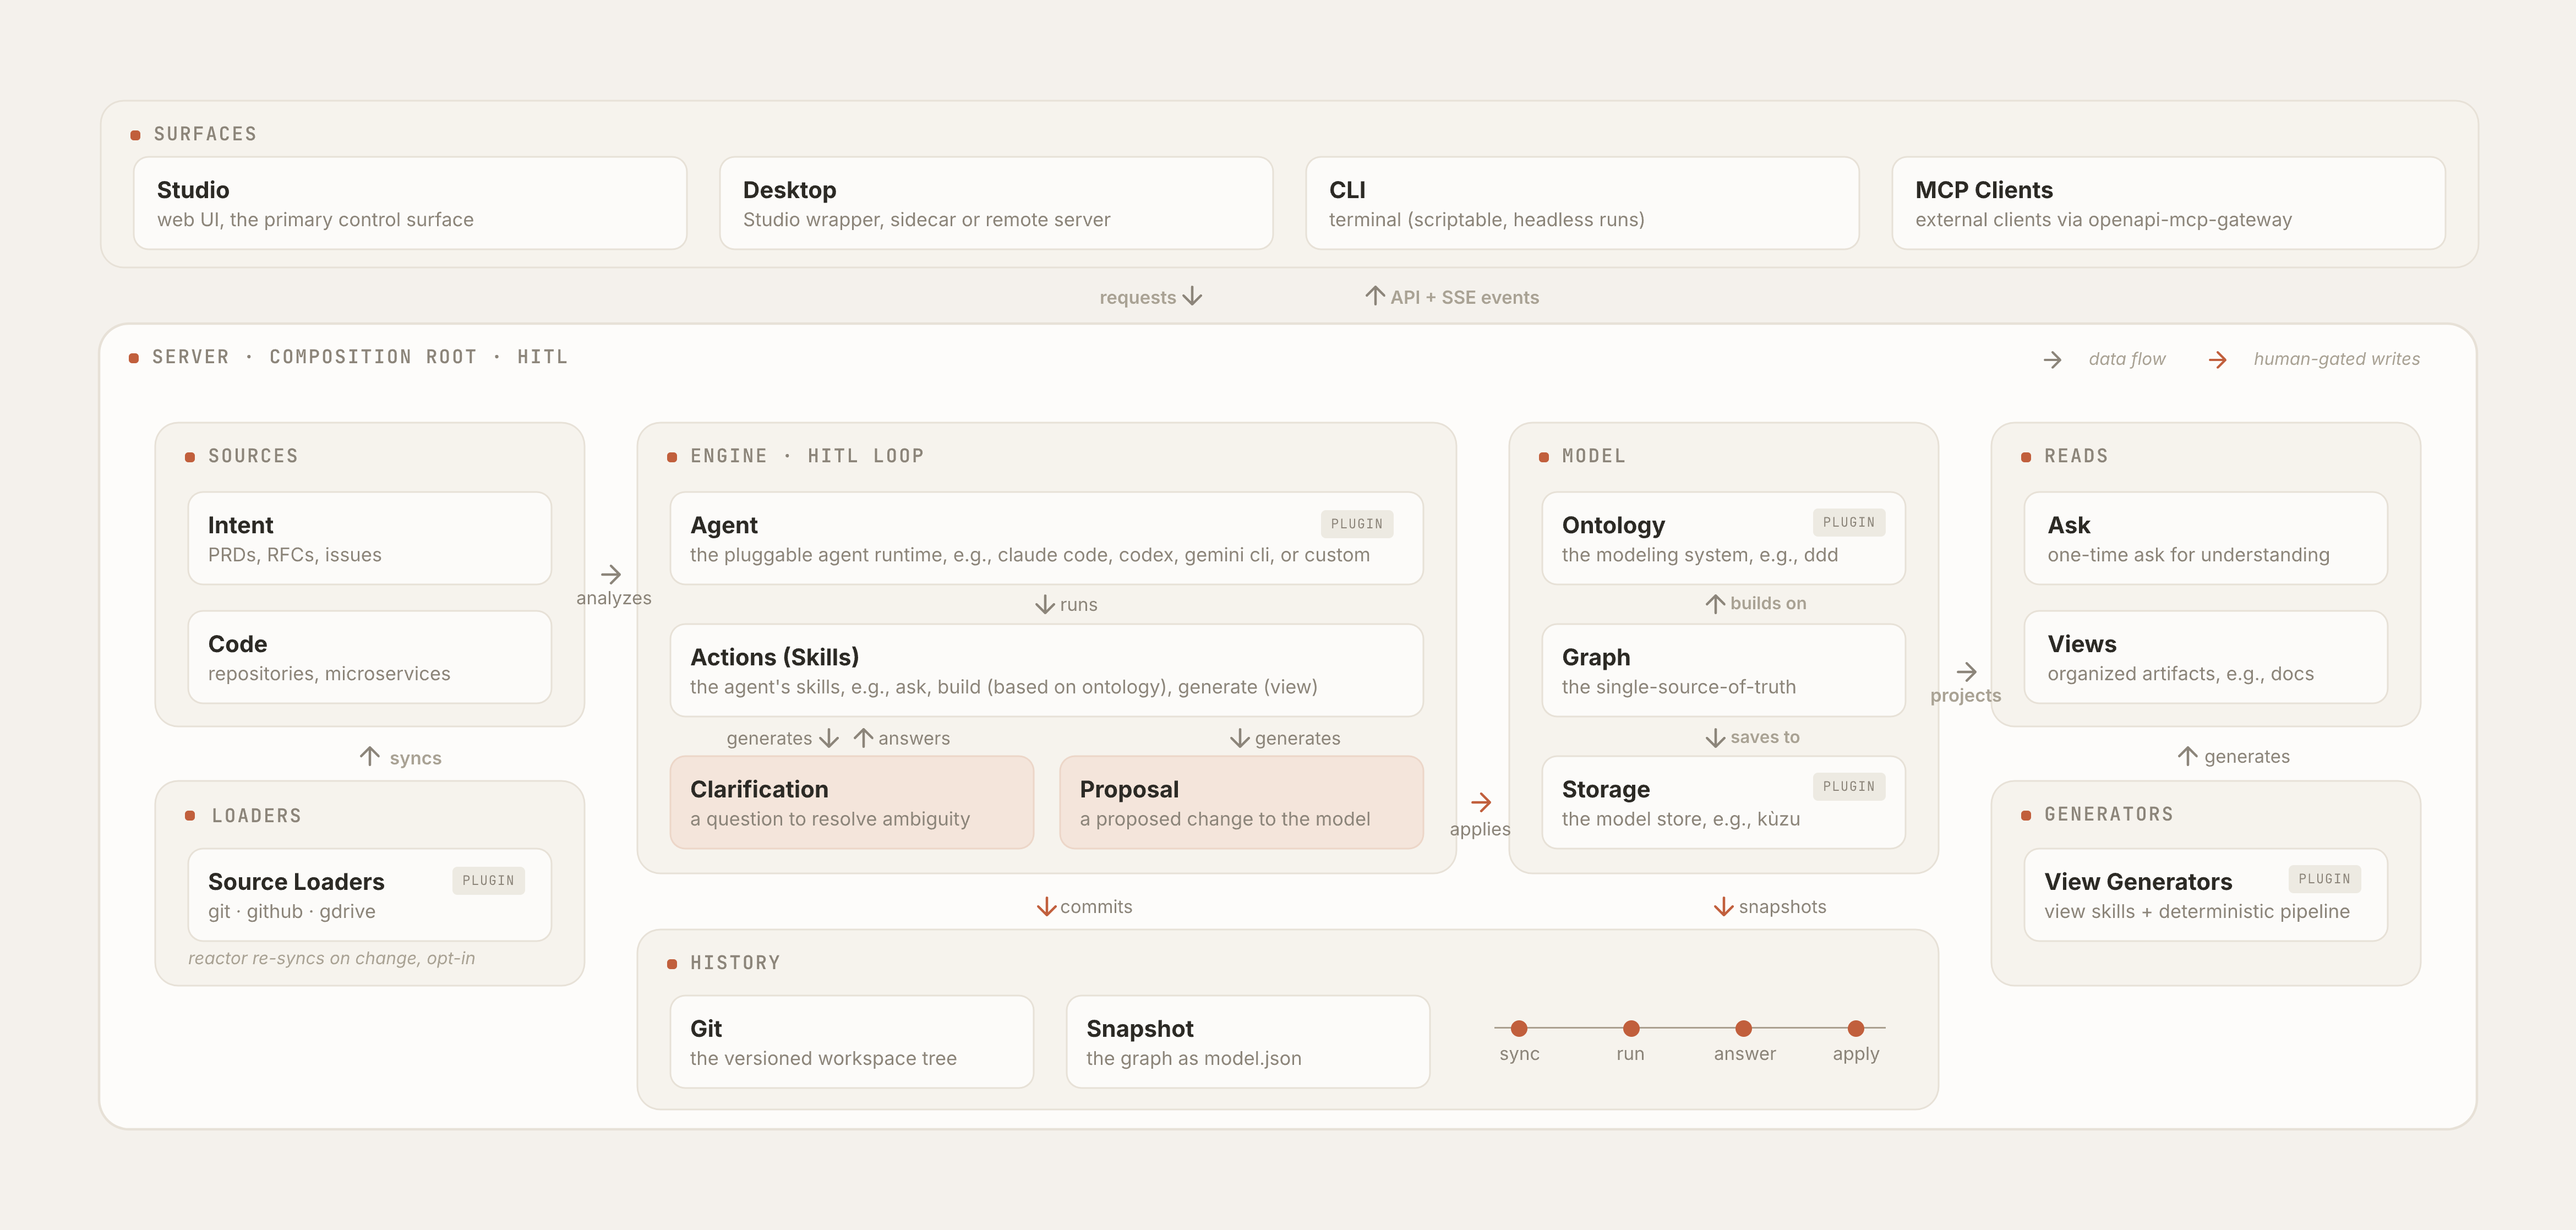
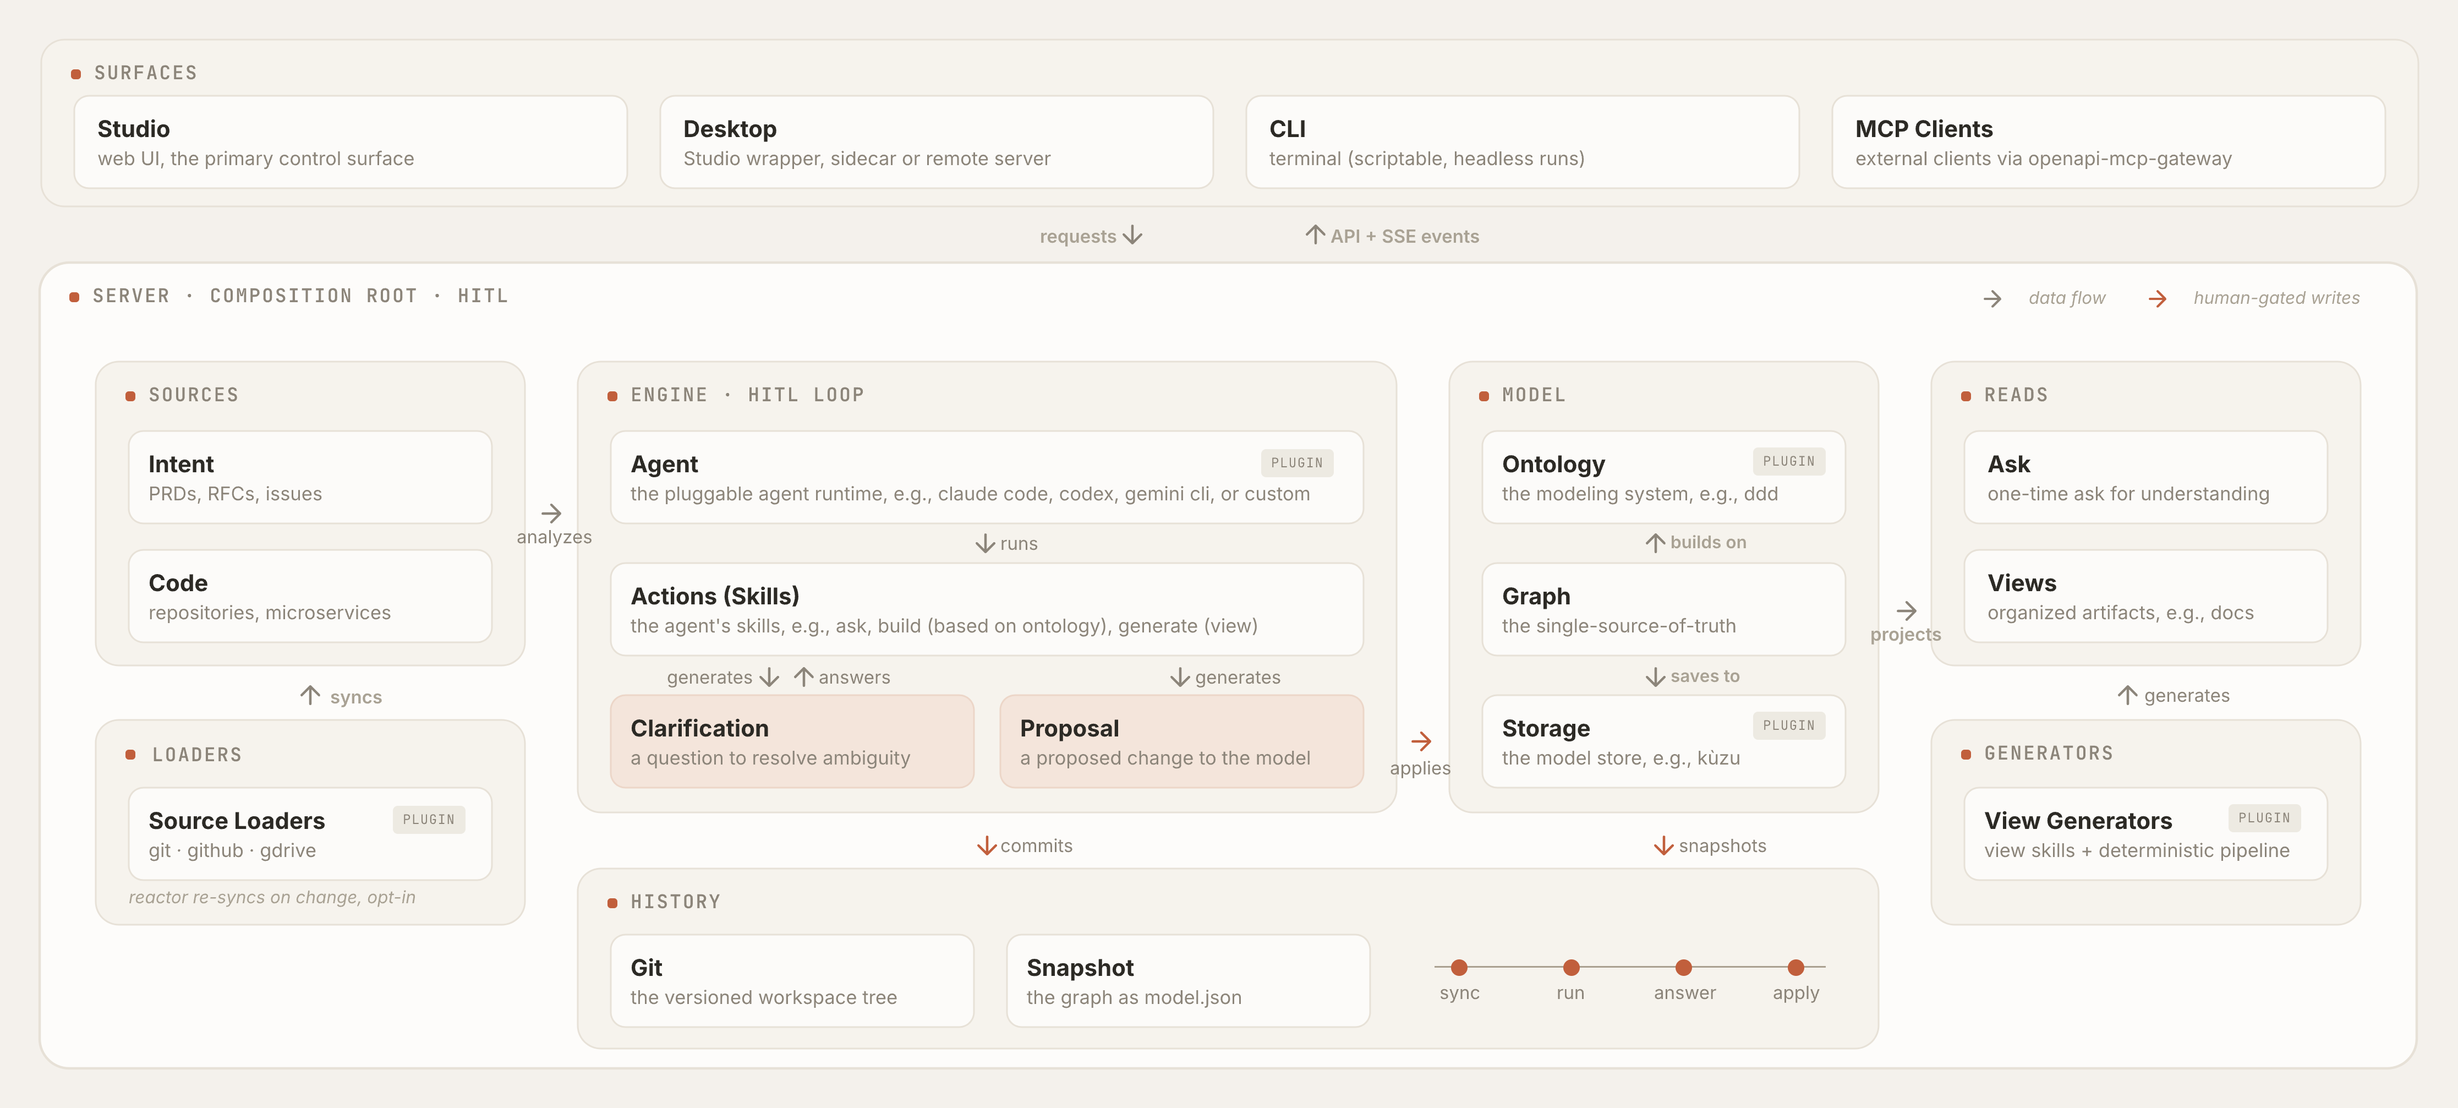
chore(release): prepare 0.2.0 (#81)
* chore(release): prepare 0.2.0

- bump all package versions 0.1.0 -> 0.2.0 for the release
- README: lift the architecture diagram to a hero spot after the intro and
  move the install snippet into a Quick Start section

* docs(readme): group sections under Design and Usage, trim the diagram

- fold Framework + Architecture under a Design heading, and Quick Start, The
  Loop, and Workspace Manifest under Usage, so the short sections read as a
  two-level hierarchy instead of a flat list of ten
- keep the architecture diagram as a hero image right after the intro
- re-export architecture.png with the surrounding whitespace trimmed

* docs(readme): correct the manifest and skill snippets

- the PRODUCT.md example now carries the required source id and name plus a
  storage block, so it parses against ProductManifest instead of throwing
- drop the non-existent requiredPaths skill field, the braid block only
  preflights requiredEnv and requiredMcpServers
- drop the stale agents/agentBindings manifest mention

Verified both the manifest and skill frontmatter parse against the schemas.

---------

diff --git a/README.md b/README.md
@@ -9,11 +9,7 @@
 
 Braid braids them back into one domain model that engineers and PMs can both read. The default ontology is Domain-Driven Design (DDD), so people and the AI both speak the ubiquitous language of the domain instead of class names and package paths.
 
-```bash
-pnpm dlx @braidhq/cli init my-product
-cd my-product && pnpm dlx @braidhq/cli dev
-# Studio at http://localhost:5173, server at :4321
-```
+![Braid architecture](architecture.png)
 
 ## Features
 
@@ -32,7 +28,11 @@ Braid is built against two failure modes.
 - **Code-Only Graphs**: tools that pull a graph straight from source are honest about what runs, but the result is a class-and-call-site graph. It cannot tell you why a feature exists, who asked for it, or what trade-off shaped its rules. PMs cannot read it.
 - **Doc-Only Knowledge**: PRDs, design docs, Notion, and Confluence speak the domain, but nobody keeps them in sync once the code lands. Six months later, nobody trusts them.
 
-## Framework
+## Design
+
+Braid is a pluggable framework over a fixed runtime shape. The axes are swappable, the review loop and the human gate are not.
+
+### Framework
 
 Braid is a framework, not a managed service. Every axis is a plugin, and the defaults are a starting point rather than a built-in assumption.
 
@@ -40,11 +40,9 @@ Braid is a framework, not a managed service. Every axis is a plugin, and the def
 - **Framework Invariants**: the human-in-the-loop gate, the evidence requirement, and the branded type discipline are enforced by the type system and cannot be swapped out.
 - **Braid Anything**: the domain lives in the ontology, not the engine, so the same loop, gate, and provenance carry over whether you braid a codebase or a research corpus.
 
-## Architecture
+### Architecture
 
 The server is the composition root. Sources feed an event-driven engine that produces reviewable changes, a human gate lands them in one canonical model, and every write is versioned in Git.
-
-![Braid architecture](architecture.png)
 
 - **Surfaces**: Studio (web UI), Desktop, CLI, and MCP clients all talk to one server over REST and SSE.
 - **Sources**: Intent (PRDs, RFCs, issues) and Code (repositories) are pulled in by Source Loader plugins for git, github, and gdrive.
@@ -53,7 +51,21 @@ The server is the composition root. Sources feed an event-driven engine that pro
 - **Reads**: Ask answers a one-off question over the graph, and View Generators project docs and other Views off it.
 - **History**: every human-gated write commits to Git. The graph state travels alongside the code as a `model.json` snapshot, so any commit is restorable.
 
-## The Loop
+## Usage
+
+Get a workspace running, then work the review loop and tune it through the manifest.
+
+### Quick Start
+
+Scaffold a workspace and start the dev server.
+
+```bash
+pnpm dlx @braidhq/cli init my-product
+cd my-product && pnpm dlx @braidhq/cli dev
+# Studio at http://localhost:5173, server at :4321
+```
+
+### The Loop
 
 Once `braid dev` is running, work the loop in Studio at `http://localhost:5173`.
 
@@ -61,20 +73,21 @@ Once `braid dev` is running, work the loop in Studio at `http://localhost:5173`.
 - **Review**: open each Proposal, inspect the diff, and pre-validate it. Answer any Clarification the agent raised.
 - **Apply**: land the change when it is green, or reject it with a reason.
 
-## Workspace Manifest
+### Workspace Manifest
 
-Workspace shape lives in one `PRODUCT.md` manifest. The minimum is just sources.
+Workspace shape lives in one `PRODUCT.md` manifest. It names the workspace, points at the sources, and picks a graph store.
 
 ```yaml
 ---
 name: my-product
 sources:
-  - {kind: filesystem, role: intent, path: ./intent}
-  - {kind: filesystem, role: code, path: ./code/app, language: typescript}
+  - {kind: filesystem, id: src-intent, name: intent, role: intent, path: ./intent}
+  - {kind: filesystem, id: src-code, name: app, role: code, path: ./code/app, language: typescript}
+storage: {kind: kuzu, config: {}}
 ---
 ```
 
-Defaults fill in the rest, the built-in ontology, the Claude Code agent on opus, and embedded Kuzu storage. Declare `ontologyId`, `agents` with `agentBindings`, or `storage` blocks only to override a default. Swap `kind: filesystem` for `git` or `gdrive` to load remote sources.
+`version`, `ontologyId` (DDD by default), and `mcpServers` fill in when omitted. Swap a source's `kind: filesystem` for `git` or `gdrive` to load remote sources.
 
 ## Packages
 
@@ -142,12 +155,11 @@ argumentHint: <ctx-name>
 model: opus
 braid:
   requiredEnv: [GITHUB_TOKEN]
-  requiredPaths: [./intent, ./code]
 ---
 Walk `intent/` and `code/`. Emit proposals that add boundedContext, aggregate, and command nodes. Cite the source file or doc each claim came from.
 ```
 
-Top-level keys follow the Claude Code skill frontmatter format (`name`, `description`, `argumentHint`, `model`). The Braid-specific `braid:` block is preflighted before the agent spawns, so a missing env var, path, or MCP server fails fast with a clear error instead of derailing the conversation halfway through.
+Top-level keys follow the Claude Code skill frontmatter format (`name`, `description`, `argumentHint`, `model`). The Braid-specific `braid:` block is preflighted before the agent spawns, so a missing env var or MCP server fails fast with a clear error instead of derailing the conversation halfway through.
 
 ## License
 
